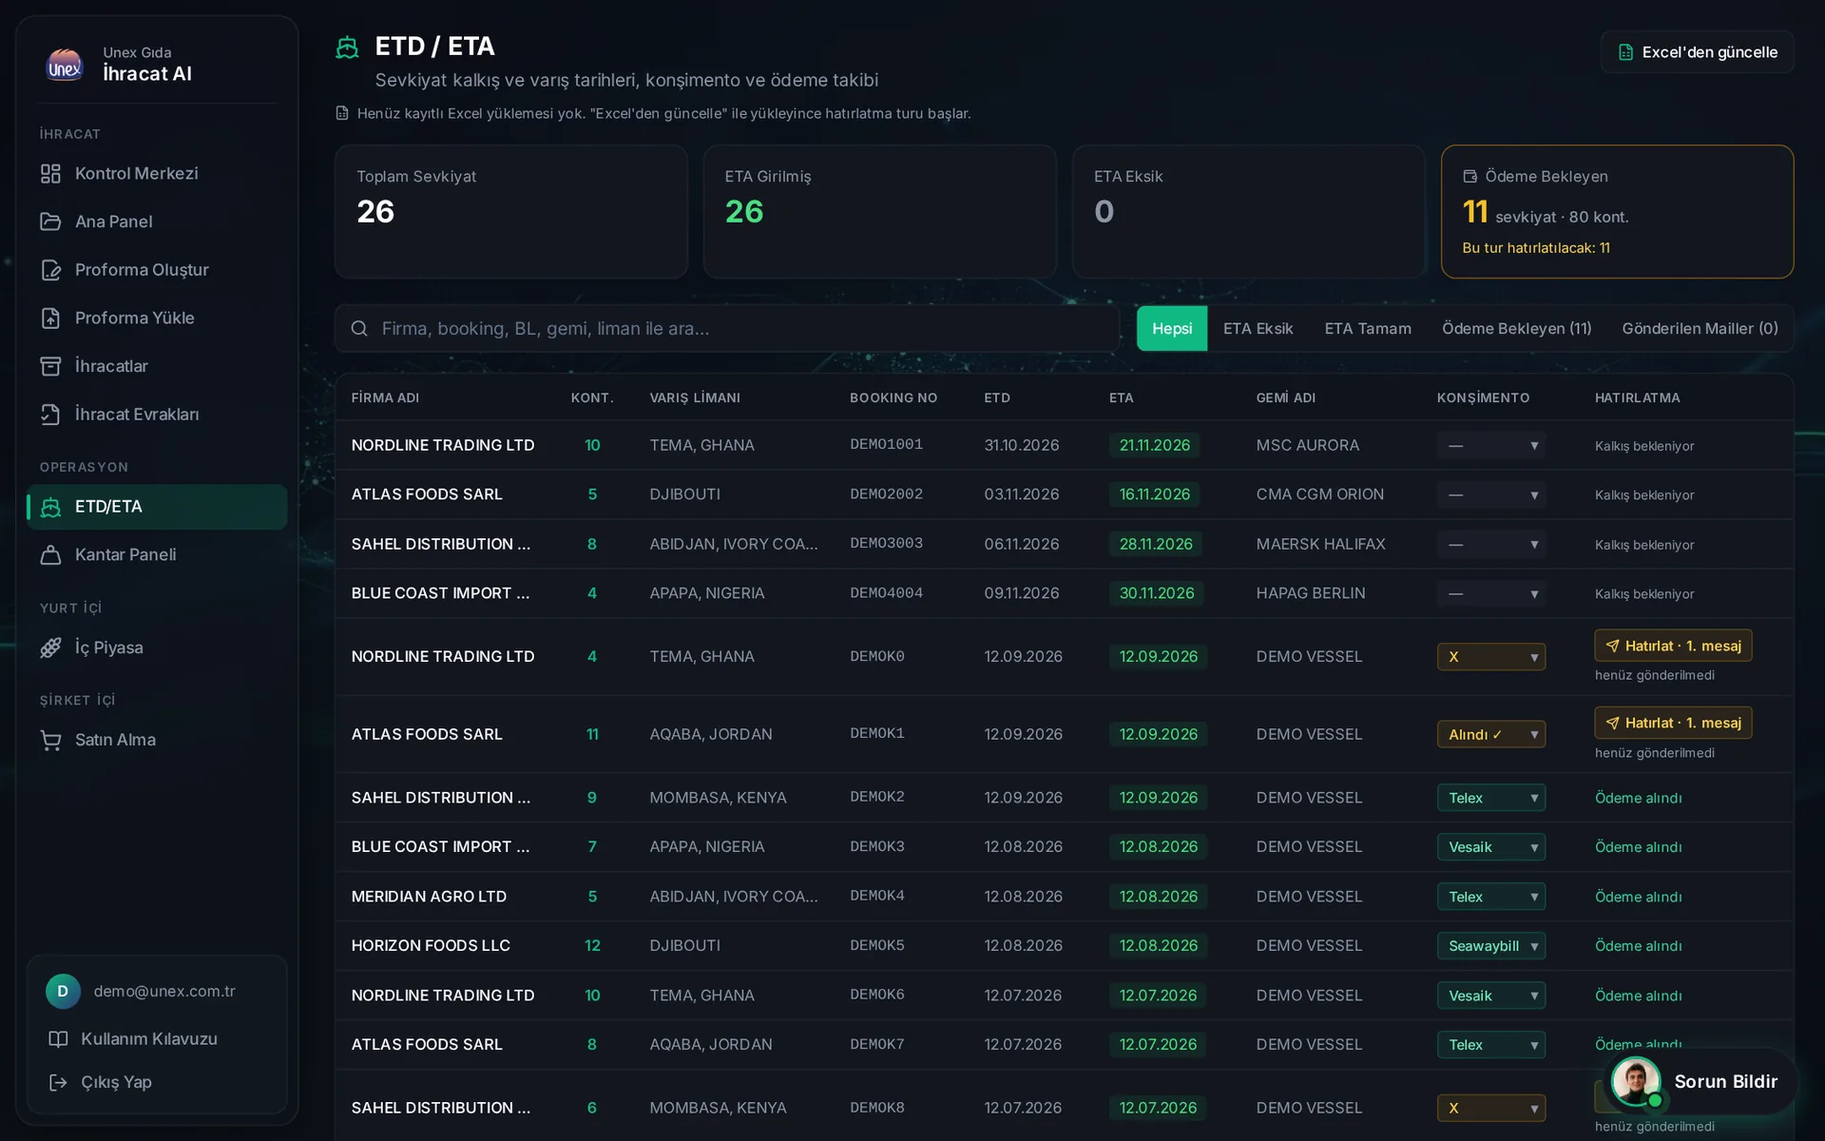
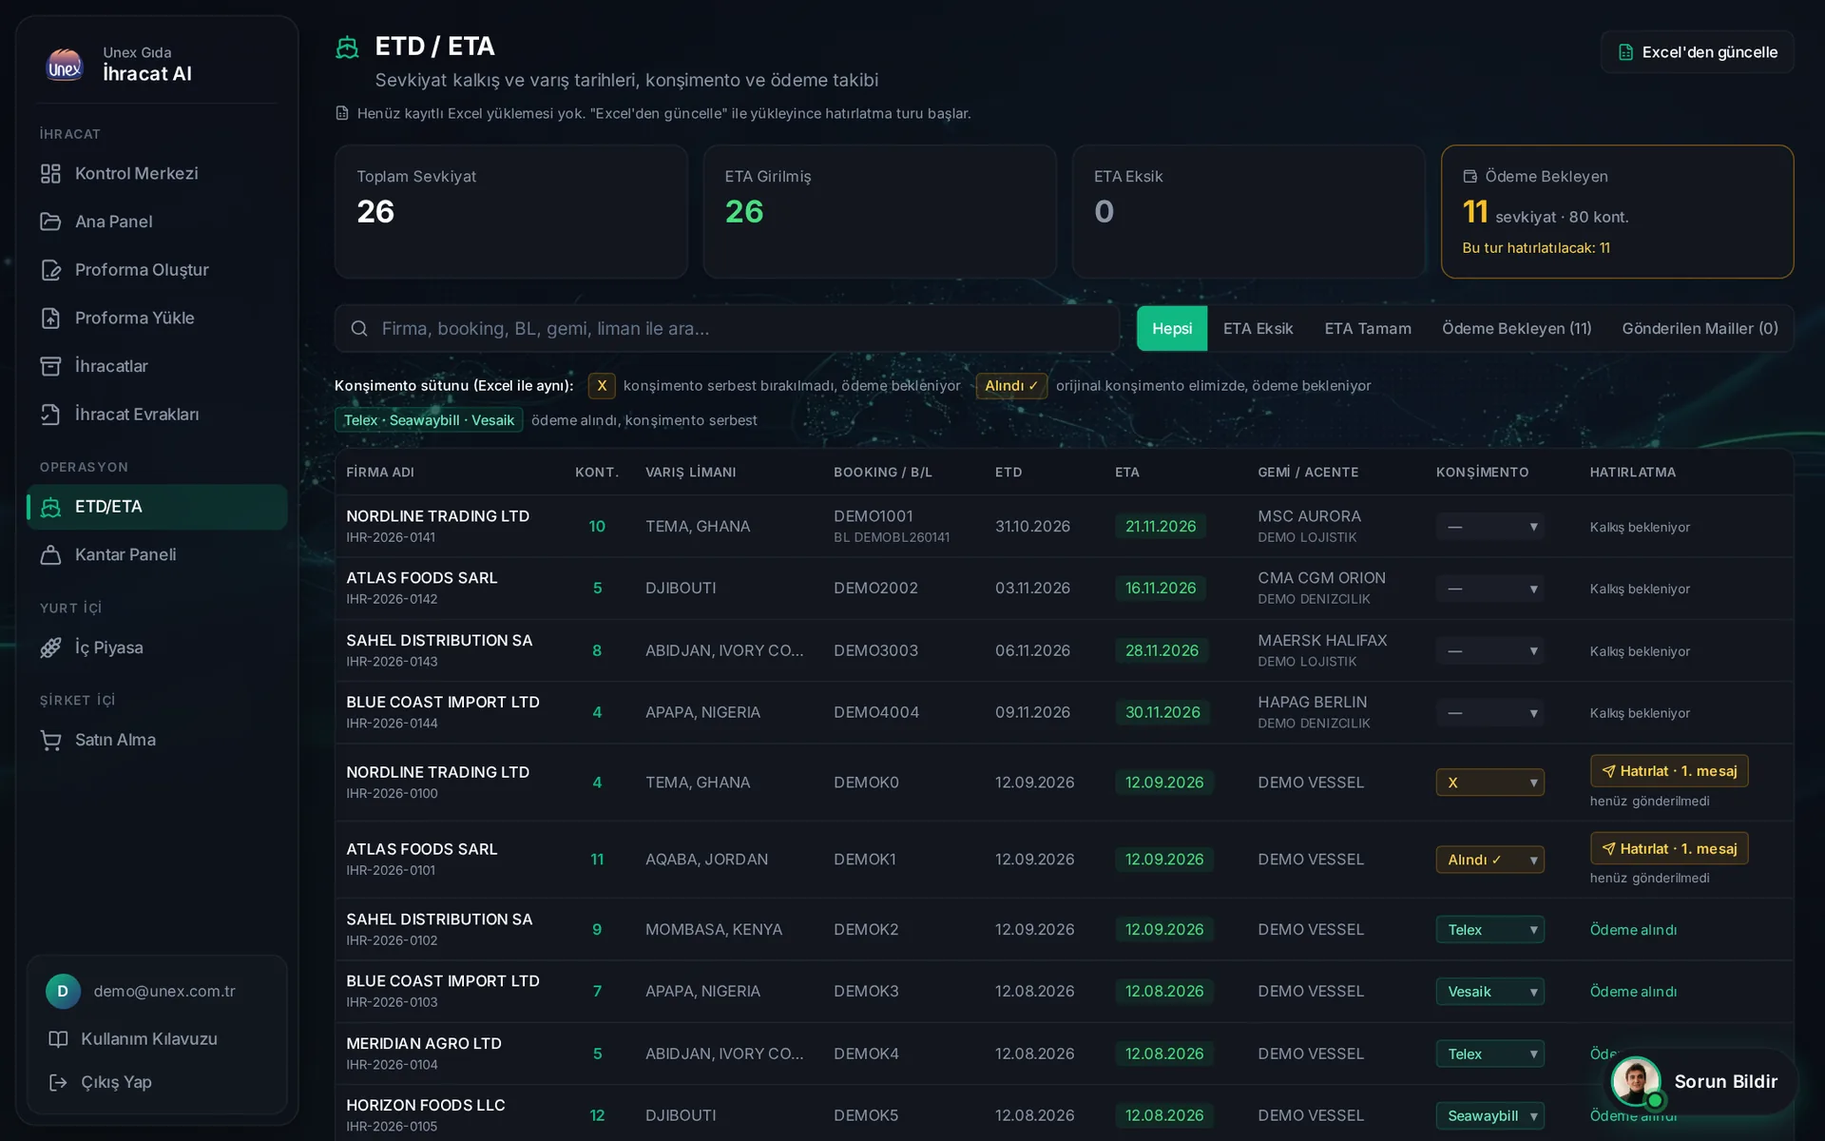
ETD/ETA: tablo ekrana sığdı (B/L, acente, dosya no alt satırda); Konşimento işaretlerinin açıklaması eklendi

diff --git a/app/etd-eta/page.tsx b/app/etd-eta/page.tsx
@@ -12,7 +12,7 @@ import { Ship, Search, Loader2, AlertCircle, Bell, FileSpreadsheet, Wallet, Chec
 import { formatDateTR } from "@/lib/cutoff-utils";
 import { CARD_BG, CARD_BORDER, TEXT_MUTED, ACCENT, ROW_HEADER_BG } from "@/lib/theme";
 import {
-  KONSIMENTO_DURUMLARI, KONSIMENTO_ETIKETI, odemeAlindiMi, odemeBekliyorMu, konteynerTipiYazimi,
+  KONSIMENTO_DURUMLARI, KONSIMENTO_ETIKETI, KONSIMENTO_ACIKLAMA, konsimentoDurumuMu, odemeAlindiMi, odemeBekliyorMu, konteynerTipiYazimi,
   SABLON_BILGI, siradakiSablon, buTurGonderildiMi, type HatirlatmaSablonu,
 } from "@/lib/odeme-takibi";
 import { OdemeHatirlatmaPenceresi, type HatirlatmaKaydi } from "@/components/odeme-hatirlatma-penceresi";
@@ -503,6 +503,15 @@ export default function EtdEtaPage() {
         </div>
       </div>
 
+      {odemeDestek && etaFilter !== "gonderilen" && (
+        <div className="mb-3 flex flex-wrap items-center gap-x-3 gap-y-1.5 text-[11px]" style={{ color: TEXT_MUTED }} data-testid="konsimento-aciklama">
+          <span className="font-medium text-white">Konşimento sütunu (Excel ile aynı):</span>
+          <span className="inline-flex items-center gap-1.5"><span className="px-1.5 py-px rounded border text-amber-300 bg-amber-500/10 border-amber-500/25 font-medium">X</span> konşimento serbest bırakılmadı, ödeme bekleniyor</span>
+          <span className="inline-flex items-center gap-1.5"><span className="px-1.5 py-px rounded border text-amber-300 bg-amber-500/10 border-amber-500/25 font-medium">Alındı ✓</span> orijinal konşimento elimizde, ödeme bekleniyor</span>
+          <span className="inline-flex items-center gap-1.5"><span className="px-1.5 py-px rounded border text-emerald-300 bg-emerald-500/10 border-emerald-500/25 font-medium">Telex · Seawaybill · Vesaik</span> ödeme alındı, konşimento serbest</span>
+        </div>
+      )}
+
       {/* Tablo */}
       {!loading && etaFilter === "gonderilen" ? (
         <div className="rounded-xl border shadow-sm overflow-hidden animate-fade-up" style={{ backgroundColor: CARD_BG, borderColor: CARD_BORDER }} data-testid="gonderilen-tablo">
@@ -511,7 +520,7 @@ export default function EtdEtaPage() {
               <thead>
                 <tr className="border-b" style={{ borderColor: CARD_BORDER, backgroundColor: ROW_HEADER_BG }}>
                   {["Tarih", "Firma", "Booking No", "Mesaj", "Alıcı", "Gönderen", "Ödeme durumu"].map((b) => (
-                    <th key={b} className="text-left px-3 py-2.5 text-[10px] font-semibold uppercase tracking-wide whitespace-nowrap" style={{ color: TEXT_MUTED }}>{b}</th>
+                    <th key={b} className="text-left px-2 py-2.5 text-[10px] font-semibold uppercase tracking-wide whitespace-nowrap" style={{ color: TEXT_MUTED }}>{b}</th>
                   ))}
                 </tr>
               </thead>
@@ -523,18 +532,18 @@ export default function EtdEtaPage() {
                   const alindi = odemeAlindiMi(s?.konsimento_durumu);
                   return (
                     <tr key={h.id} className="border-b last:border-0 align-top hover:bg-white/[0.03]" style={{ borderColor: CARD_BORDER }}>
-                      <td className="px-3 py-2 whitespace-nowrap text-white tabular-nums">{tarihSaatTR(h.gonderim_zamani)}</td>
-                      <td className="px-3 py-2 font-medium text-white max-w-[200px] truncate" title={s?.alici_firma || undefined}>{s?.alici_firma || "—"}<span className="block text-[10px] font-normal" style={{ color: TEXT_MUTED }}>{s?.dosya_no}</span></td>
-                      <td className="px-3 py-2 font-mono whitespace-nowrap" style={{ color: TEXT_MUTED }}>{s?.booking_no || "—"}</td>
-                      <td className="px-3 py-2 min-w-[220px]">
+                      <td className="px-2 py-2 whitespace-nowrap text-white tabular-nums">{tarihSaatTR(h.gonderim_zamani)}</td>
+                      <td className="px-2 py-2 font-medium text-white max-w-[200px] truncate" title={s?.alici_firma || undefined}>{s?.alici_firma || "—"}<span className="block text-[10px] font-normal" style={{ color: TEXT_MUTED }}>{s?.dosya_no}</span></td>
+                      <td className="px-2 py-2 font-mono whitespace-nowrap" style={{ color: TEXT_MUTED }}>{s?.booking_no || "—"}</td>
+                      <td className="px-2 py-2 min-w-[220px]">
                         <details>
                           <summary className="cursor-pointer text-white">{mesajSirasi[h.id] || "?"}. mesaj · <span style={{ color: TEXT_MUTED }}>{SABLON_BILGI[h.sablon as HatirlatmaSablonu]?.ad || `Şablon ${h.sablon}`}</span></summary>
                           <div className="mt-1.5 whitespace-pre-wrap font-mono text-[11px] leading-relaxed" style={{ color: TEXT_MUTED }}>{h.cc ? `CC: ${h.cc}\n` : ""}Konu: {h.konu}{"\n\n"}{h.govde}</div>
                         </details>
                       </td>
-                      <td className="px-3 py-2 max-w-[200px] truncate" style={{ color: TEXT_MUTED }} title={h.alici}>{h.alici}</td>
-                      <td className="px-3 py-2 whitespace-nowrap" style={{ color: TEXT_MUTED }}>{h.gonderen_eposta || "—"}</td>
-                      <td className="px-3 py-2 whitespace-nowrap">
+                      <td className="px-2 py-2 max-w-[200px] truncate" style={{ color: TEXT_MUTED }} title={h.alici}>{h.alici}</td>
+                      <td className="px-2 py-2 whitespace-nowrap" style={{ color: TEXT_MUTED }}>{h.gonderen_eposta || "—"}</td>
+                      <td className="px-2 py-2 whitespace-nowrap">
                         {alindi ? <span className="text-[11px] text-emerald-400">Ödeme alındı</span> : <span className="text-[11px] text-amber-300">Bekliyor</span>}
                       </td>
                     </tr>
@@ -554,23 +563,21 @@ export default function EtdEtaPage() {
             <table className="w-full text-xs">
               <thead>
                 <tr className="border-b" style={{ borderColor: CARD_BORDER, backgroundColor: ROW_HEADER_BG }}>
-                  <th className="text-left px-3 py-2.5 text-[10px] font-semibold uppercase tracking-wide whitespace-nowrap" style={{ color: TEXT_MUTED }}>Firma Adı</th>
-                  <th className="text-center px-3 py-2.5 text-[10px] font-semibold uppercase tracking-wide whitespace-nowrap" style={{ color: TEXT_MUTED }}>Kont.</th>
-                  <th className="text-left px-3 py-2.5 text-[10px] font-semibold uppercase tracking-wide whitespace-nowrap" style={{ color: TEXT_MUTED }}>Varış Limanı</th>
-                  <th className="hidden 2xl:table-cell text-left px-3 py-2.5 text-[10px] font-semibold uppercase tracking-wide whitespace-nowrap" style={{ color: TEXT_MUTED }}>Acente</th>
-                  <th lang="en" className="text-left px-3 py-2.5 text-[10px] font-semibold uppercase tracking-wide whitespace-nowrap" style={{ color: TEXT_MUTED }}>Booking No</th>
-                  <th className="hidden 2xl:table-cell text-left px-3 py-2.5 text-[10px] font-semibold uppercase tracking-wide whitespace-nowrap" style={{ color: TEXT_MUTED }}>B/L No</th>
-                  <th className="text-left px-3 py-2.5 text-[10px] font-semibold uppercase tracking-wide whitespace-nowrap" style={{ color: TEXT_MUTED }}>ETD</th>
-                  <th className="text-left px-3 py-2.5 text-[10px] font-semibold uppercase tracking-wide whitespace-nowrap" style={{ color: TEXT_MUTED }}>ETA</th>
-                  <th className="text-left px-3 py-2.5 text-[10px] font-semibold uppercase tracking-wide whitespace-nowrap" style={{ color: TEXT_MUTED }}>Gemi Adı</th>
-                  {odemeDestek && <th className="text-left px-3 py-2.5 text-[10px] font-semibold uppercase tracking-wide whitespace-nowrap" style={{ color: TEXT_MUTED }}>Konşimento</th>}
-                  {odemeDestek && <th className="text-left px-3 py-2.5 text-[10px] font-semibold uppercase tracking-wide whitespace-nowrap" style={{ color: TEXT_MUTED }}>Hatırlatma</th>}
+                  <th className="text-left px-2 py-2.5 text-[10px] font-semibold uppercase tracking-wide whitespace-nowrap" style={{ color: TEXT_MUTED }}>Firma Adı</th>
+                  <th className="text-center px-2 py-2.5 text-[10px] font-semibold uppercase tracking-wide whitespace-nowrap" style={{ color: TEXT_MUTED }}>Kont.</th>
+                  <th className="text-left px-2 py-2.5 text-[10px] font-semibold uppercase tracking-wide whitespace-nowrap" style={{ color: TEXT_MUTED }}>Varış Limanı</th>
+                  <th lang="en" className="text-left px-2 py-2.5 text-[10px] font-semibold uppercase tracking-wide whitespace-nowrap" style={{ color: TEXT_MUTED }}>Booking / B/L</th>
+                  <th className="text-left px-2 py-2.5 text-[10px] font-semibold uppercase tracking-wide whitespace-nowrap" style={{ color: TEXT_MUTED }}>ETD</th>
+                  <th className="text-left px-2 py-2.5 text-[10px] font-semibold uppercase tracking-wide whitespace-nowrap" style={{ color: TEXT_MUTED }}>ETA</th>
+                  <th className="text-left px-2 py-2.5 text-[10px] font-semibold uppercase tracking-wide whitespace-nowrap" style={{ color: TEXT_MUTED }}>Gemi / Acente</th>
+                  {odemeDestek && <th className="text-left px-2 py-2.5 text-[10px] font-semibold uppercase tracking-wide whitespace-nowrap" style={{ color: TEXT_MUTED }}>Konşimento</th>}
+                  {odemeDestek && <th className="text-left px-2 py-2.5 text-[10px] font-semibold uppercase tracking-wide whitespace-nowrap" style={{ color: TEXT_MUTED }}>Hatırlatma</th>}
                 </tr>
               </thead>
               <tbody>
                 {filtered.length === 0 ? (
                   <tr>
-                    <td colSpan={odemeDestek ? 11 : 9} className="text-center py-10" style={{ color: TEXT_MUTED }}>Kayıt bulunamadı</td>
+                    <td colSpan={odemeDestek ? 9 : 7} className="text-center py-10" style={{ color: TEXT_MUTED }}>Kayıt bulunamadı</td>
                   </tr>
                 ) : filtered.map((s, idx) => {
                   const gun = s.eta ? kalanGun(s.eta) : null;
@@ -582,14 +589,18 @@ export default function EtdEtaPage() {
                       className={`border-b last:border-0 hover:bg-white/[0.03] transition-colors animate-fade-up ${staggerClass} ${!s.eta ? "bg-red-500/[0.06]" : yaklasan ? "bg-amber-500/[0.06]" : ""}`}
                       style={{ borderColor: CARD_BORDER }}
                     >
-                      <td className="px-3 py-2 font-medium text-white max-w-[150px] truncate">{s.alici_firma || "—"}</td>
-                      <td className="px-3 py-2 text-center font-semibold" style={{ color: ACCENT }}>{s.konteyner_adedi}</td>
-                      <td className="px-3 py-2 whitespace-nowrap max-w-[140px] truncate" style={{ color: TEXT_MUTED }} title={s.varis_limani || undefined}>{s.varis_limani || "—"}</td>
-                      <td className="hidden 2xl:table-cell px-3 py-2 max-w-[100px] truncate" style={{ color: TEXT_MUTED }}>{s.acente_ismi || "—"}</td>
-                      <td className="px-3 py-2 font-mono whitespace-nowrap" style={{ color: TEXT_MUTED }}>{s.booking_no || "—"}</td>
-                      <td className="hidden 2xl:table-cell px-3 py-2 font-mono whitespace-nowrap" style={{ color: TEXT_MUTED }}>{s.bl_no || "—"}</td>
-                      <td className="px-3 py-2 whitespace-nowrap" style={{ color: TEXT_MUTED }}>{s.etd ? formatDateTR(s.etd) : "—"}</td>
-                      <td className="px-3 py-2 whitespace-nowrap">
+                      <td className="px-2 py-2 max-w-[148px]" title={s.alici_firma || undefined}>
+                        <span className="block font-medium text-white truncate">{s.alici_firma || "—"}</span>
+                        <span className="block text-[10px] truncate" style={{ color: TEXT_MUTED }}>{s.dosya_no}</span>
+                      </td>
+                      <td className="px-2 py-2 text-center font-semibold" style={{ color: ACCENT }}>{s.konteyner_adedi}</td>
+                      <td className="px-2 py-2 whitespace-nowrap max-w-[125px] truncate" style={{ color: TEXT_MUTED }} title={s.varis_limani || undefined}>{s.varis_limani || "—"}</td>
+                      <td className="px-2 py-2 font-mono whitespace-nowrap" style={{ color: TEXT_MUTED }}>
+                        <span className="block">{s.booking_no || "—"}</span>
+                        {s.bl_no && s.bl_no !== s.booking_no && <span className="block text-[10px] opacity-80" title="B/L No">BL {s.bl_no}</span>}
+                      </td>
+                      <td className="px-2 py-2 whitespace-nowrap" style={{ color: TEXT_MUTED }}>{s.etd ? formatDateTR(s.etd) : "—"}</td>
+                      <td className="px-2 py-2 whitespace-nowrap">
                         {editingEta?.id === s.rezervasyon_id ? (
                           <div className="flex items-center gap-1">
                             <input
@@ -642,7 +653,10 @@ export default function EtdEtaPage() {
                           </p>
                         )}
                       </td>
-                      <td className="px-3 py-2 max-w-[140px] truncate" style={{ color: TEXT_MUTED }} title={s.gemi_adi || undefined}>{s.gemi_adi || "—"}</td>
+                      <td className="px-2 py-2 max-w-[125px]" style={{ color: TEXT_MUTED }} title={[s.gemi_adi, s.acente_ismi].filter(Boolean).join(" · ") || undefined}>
+                        <span className="block truncate">{s.gemi_adi || "—"}</span>
+                        {s.acente_ismi && <span className="block text-[10px] truncate opacity-80">{s.acente_ismi}</span>}
+                      </td>
                       {odemeDestek && (() => {
                         const alindi = odemeAlindiMi(s.konsimento_durumu);
                         const bekliyor = odemeBekliyorMu(s);
@@ -652,28 +666,30 @@ export default function EtdEtaPage() {
                         const turdaGitti = buTurGonderildi(s.rezervasyon_id);
                         return (
                           <>
-                            <td className="px-3 py-2 whitespace-nowrap">
+                            <td className="px-2 py-2 whitespace-nowrap">
                               <div className="relative inline-flex items-center">
                                 <select
                                   value={s.konsimento_durumu || ""}
                                   onChange={(e) => handleDurumKaydet(s.rezervasyon_id, e.target.value)}
                                   disabled={durumKaydediliyor === s.rezervasyon_id}
                                   aria-label={`${s.booking_no || s.dosya_no} konşimento durumu`}
-                                  title={s.konsimento_durumu_tarihi ? `${s.konsimento_durumu_kaynak === "excel" ? "Excel'den" : "Elle"} · ${new Date(s.konsimento_durumu_tarihi).toLocaleString("tr-TR")}` : "Girilmedi"}
+                                  title={konsimentoDurumuMu(s.konsimento_durumu)
+                                    ? `${KONSIMENTO_ACIKLAMA[s.konsimento_durumu]}${s.konsimento_durumu_tarihi ? `\n${s.konsimento_durumu_kaynak === "excel" ? "Excel'den" : "Elle"} · ${new Date(s.konsimento_durumu_tarihi).toLocaleString("tr-TR")}` : ""}`
+                                    : "Girilmedi"}
                                   className={`appearance-none rounded px-2 py-0.5 pr-5 text-[11px] font-medium border cursor-pointer focus:outline-none focus:ring-1 focus:ring-emerald-400 disabled:opacity-60 ${
                                     alindi ? "text-emerald-300 bg-emerald-500/10 border-emerald-500/25" : s.konsimento_durumu ? "text-amber-300 bg-amber-500/10 border-amber-500/25" : "border-transparent"
                                   }`}
                                   style={{ colorScheme: "dark", ...(s.konsimento_durumu ? {} : { color: TEXT_MUTED, backgroundColor: "rgba(255,255,255,0.03)" }) }}
                                 >
                                   <option value="">—</option>
-                                  {KONSIMENTO_DURUMLARI.map((k) => <option key={k} value={k}>{KONSIMENTO_ETIKETI[k]}</option>)}
+                                  {KONSIMENTO_DURUMLARI.map((k) => <option key={k} value={k} title={KONSIMENTO_ACIKLAMA[k]}>{KONSIMENTO_ETIKETI[k]}</option>)}
                                 </select>
                                 {durumKaydediliyor === s.rezervasyon_id
                                   ? <Loader2 size={10} className="animate-spin absolute right-1.5 pointer-events-none" style={{ color: TEXT_MUTED }} />
                                   : <span className="absolute right-1.5 text-[8px] pointer-events-none" style={{ color: TEXT_MUTED }}>▼</span>}
                               </div>
                             </td>
-                            <td className="px-3 py-2 whitespace-nowrap">
+                            <td className="px-2 py-2 whitespace-nowrap">
                               {alindi ? (
                                 <span className="text-[11px] text-emerald-400">Ödeme alındı</span>
                               ) : bekliyor ? (

diff --git a/lib/kilavuz/konular.ts b/lib/kilavuz/konular.ts
@@ -162,7 +162,7 @@ export const KILAVUZ_KONULARI: KilavuzKonusu[] = [
       { nokta: "odeme", baslik: "Ödeme bekleyen", metin: "Gemisi kalkmış, konşimentosu Telex / Seawaybill / Vesaik olmayan sevkiyatlar. Karta tıklayınca yalnız onlar listelenir." },
       { nokta: "excel", baslik: "Excel'den güncelle", metin: "Haftalık ETD-ETA dosyasını seçin; Konşimento sütunu booking no ile eşleşir. Onaylanan her yükleme yeni hatırlatma turunu başlatır; ödemesi gelenler ve yeni bekleyenler özetlenir." },
       { nokta: "ara", baslik: "Arama", metin: "Firma, booking, BL, gemi ya da liman ile arayın." },
-      { nokta: "tablo", baslik: "Sevkiyat tablosu", metin: "ETA ve Konşimento durumu satırdan değiştirilir. “Hatırlat” sıradaki mesajı (1. → 2. → 3. şablon) hazırlar; Outlook'ta gönderip “gönderildi” deyince satır “Bu tur gönderildi” olur. Tüm gönderimler “Gönderilen Mailler” sekmesinde." },
+      { nokta: "tablo", baslik: "Sevkiyat tablosu", metin: "Konşimento: X = serbest bırakılmadı, Alındı ✓ = orijinal elimizde (ikisi de ödeme bekliyor); Telex / Seawaybill / Vesaik = ödeme alındı. ETA ve Konşimento satırdan değiştirilir. “Hatırlat” sıradaki mesajı (1. → 2. → 3. şablon) hazırlar; Outlook'ta gönderip “gönderildi” deyince satır “Bu tur gönderildi” olur. Tüm gönderimler “Gönderilen Mailler” sekmesinde." },
     ],
   },
   {

diff --git a/lib/odeme-takibi.ts b/lib/odeme-takibi.ts
@@ -29,6 +29,18 @@ export const KONSIMENTO_ETIKETI: Record<KonsimentoDurumu, string> = {
   acente: "Acente",
 };
 
+/** Kisa anlam (ekranda aciklama / ipucu). Harun Bey'in Excel'indeki isaretlerle ayni. */
+export const KONSIMENTO_ACIKLAMA: Record<KonsimentoDurumu, string> = {
+  x: "Konşimento serbest bırakılmadı — ödeme bekleniyor",
+  alindi: "Orijinal konşimento elimizde — ödeme bekleniyor",
+  telex: "Telex release yapıldı — ödeme alındı",
+  seawaybill: "Seawaybill ile serbest — ödeme alındı",
+  vesaik: "Vesaik (orijinal evrak) müşteriye gönderildi — ödeme alındı",
+  kargo: "Kargoda — ödeme bekleniyor sayılır",
+  kuehne: "Kuehne üzerinden — ödeme bekleniyor sayılır",
+  acente: "Acentede — ödeme bekleniyor sayılır",
+};
+
 const ODEME_ALINDI: ReadonlySet<string> = new Set(["telex", "seawaybill", "vesaik"]);
 
 export function konsimentoDurumuMu(v: unknown): v is KonsimentoDurumu {

diff --git a/lib/kilavuz/ekran-noktalari.ts b/lib/kilavuz/ekran-noktalari.ts
@@ -69,7 +69,7 @@ export const EKRAN_NOKTALARI: Record<string, Record<string, EkranNoktasi>> = {
     odeme: { x: 78.96, y: 12.61, w: 19.38, h: 11.83 },
     excel: { x: 87.71, y: 2.67, w: 10.63, h: 3.78 },
     ara: { x: 18.33, y: 26.67, w: 43.06, h: 4.22 },
-    tablo: { x: 18.4, y: 32.78, w: 79.86, h: 67.22 },
+    tablo: { x: 18.4, y: 39.33, w: 79.86, h: 60.67 },
   },
   "draft-onay": {
     sekmeler: { x: 18.33, y: 14.33, w: 25.63, h: 5.11 },

diff --git a/CLAUDE.md b/CLAUDE.md
@@ -2347,6 +2347,11 @@ ayarlarından çözülür — Claude'un commit yazarlığını değiştirmesiyle
   bekleyen, bu tur, ödemesi gelen, yeni bekleyen) + başlık altında "Son Excel: tarih · dosya ·
   kişi". "Gönderilen Mailler (n)" sekmesi: tarih, firma/dosya, booking, kaçıncı mesaj + metin,
   alıcı, gönderen, güncel ödeme durumu (arama burada da çalışır). `odeme/e2e.mjs` 51/51.
+- EKRANA SIĞMA + "X ne demek" (28.10.2026): tablo 9 sütun — B/L booking'in altında ("BL …", farklıysa),
+  acente gemi adının altında, dosya no firma adının altında; hücre dolgusu px-2; firma ≤148px, liman/gemi
+  ≤125px. 1280/1366/1440/1536/1600/1920 genişlikte yatay kaydırma YOK (`odeme/olc.mjs`). Filtrelerin
+  altında Konşimento açıklama şeridi (X = serbest bırakılmadı, Alındı ✓ = orijinal elimizde → ödeme
+  bekliyor; Telex/Seawaybill/Vesaik = ödeme alındı) + seçimin ipucunda `KONSIMENTO_ACIKLAMA`.
 
 ## Genel çalışma prensibi
 
